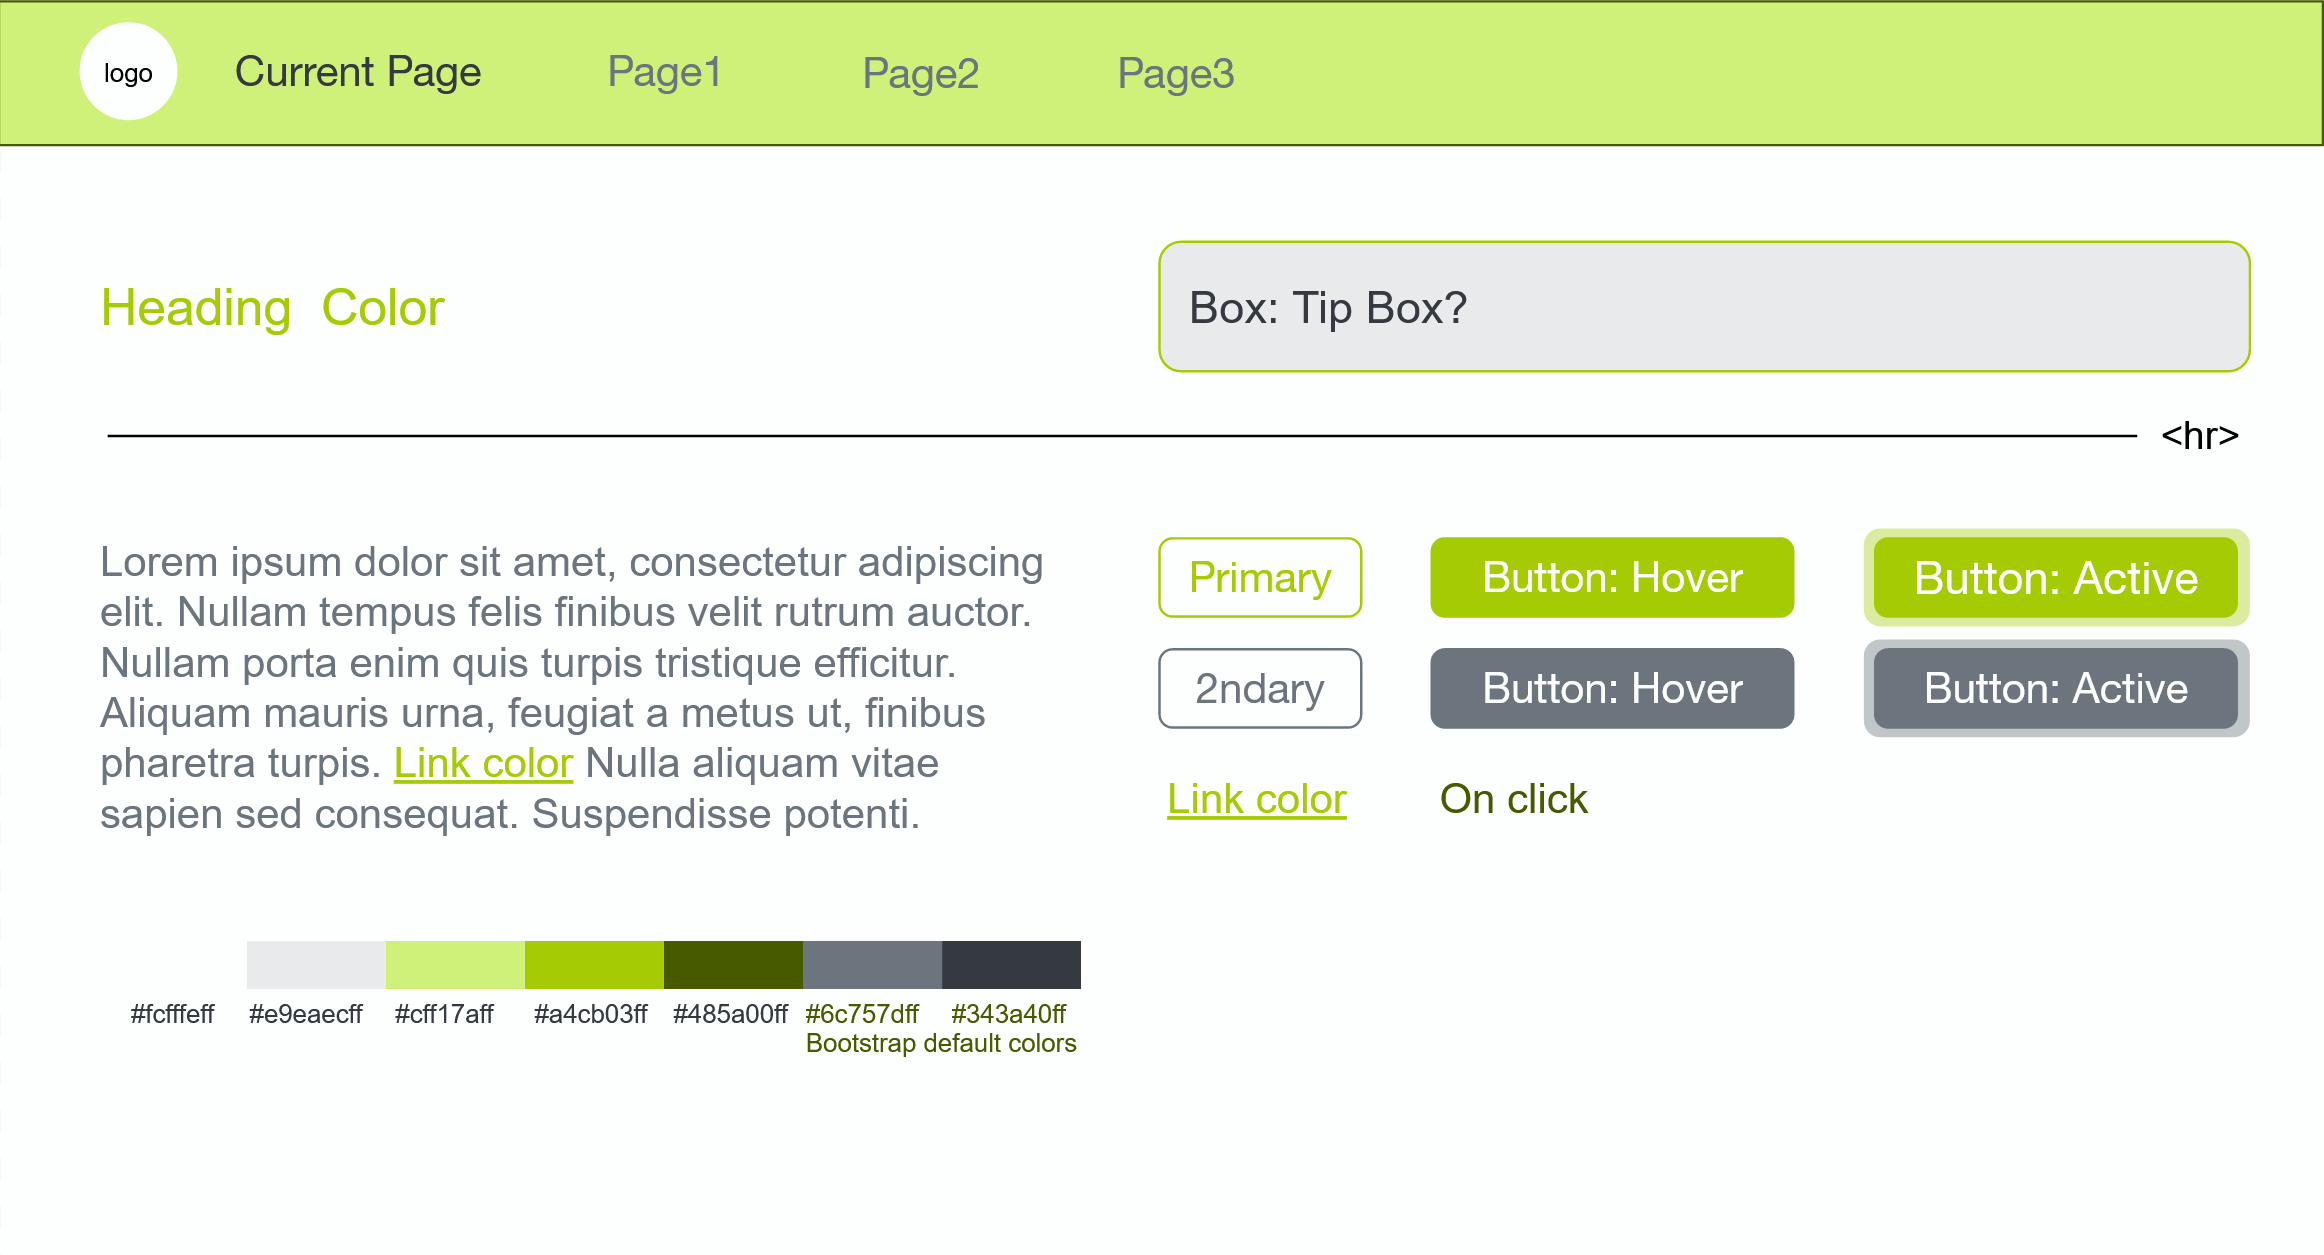
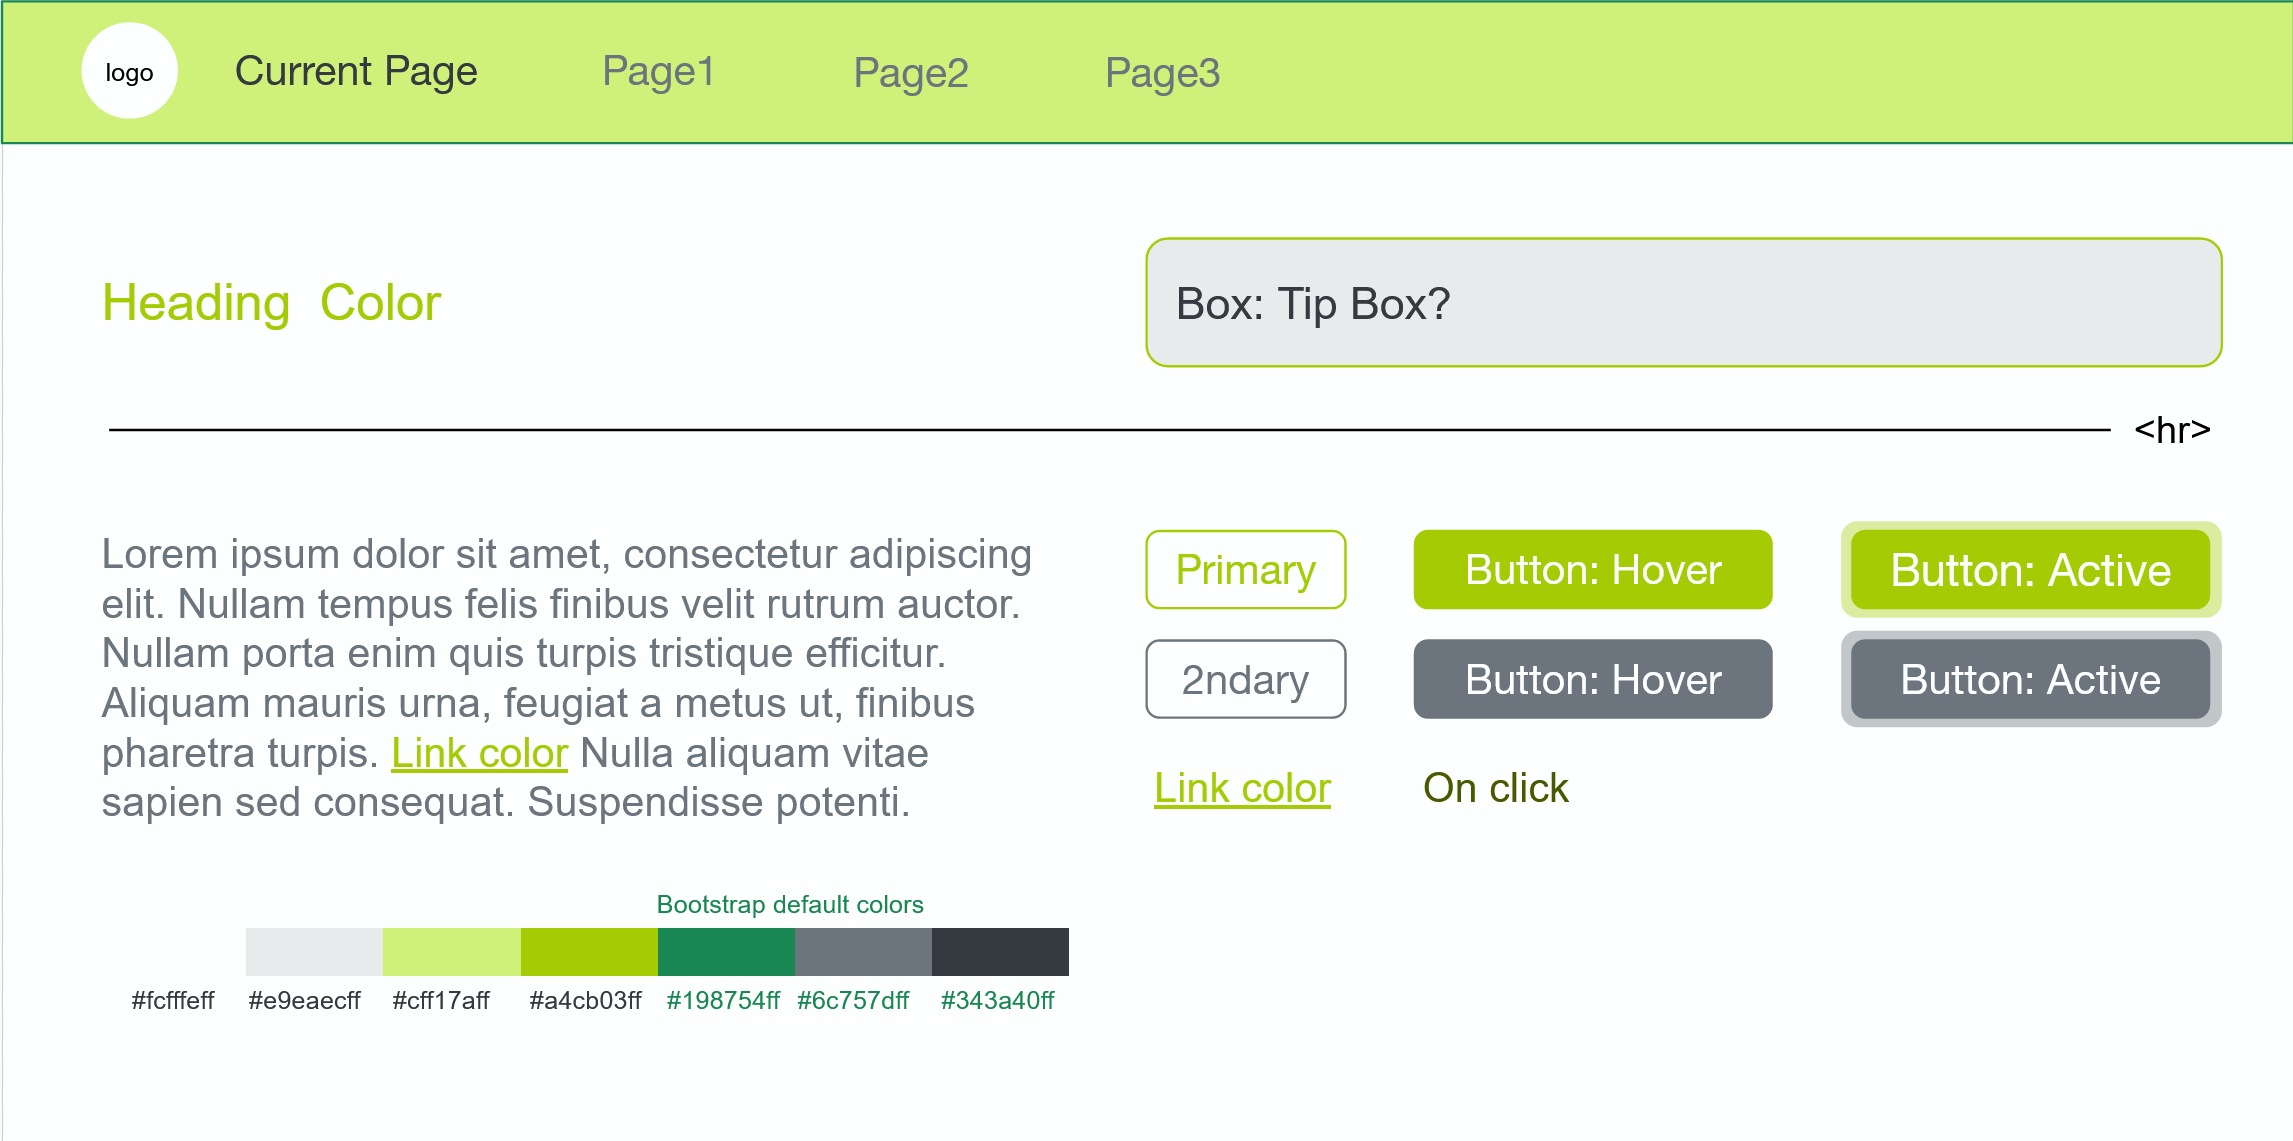
updated style guide and library

diff --git a/project_code_and_components/resources/css/style_guide.md b/project_code_and_components/resources/css/style_guide.md
@@ -14,6 +14,7 @@ This document contains information on the following:
 - Colored boxes
 - Buttons
 - Images for use of icons
+- Tables
 
 It isn't necessary to read the entire thing to parse a section.
 
@@ -57,7 +58,7 @@ Note: Hex codes do not include alpha (transparency) channels code and by default
 - #e9eaec
 - #cff17a
 - #a4cb03
-- #485a00
+- #198754
 - #6c757d
 - #343a40
 
@@ -108,3 +109,13 @@ Class "icon" puts an image into a circular frame.
 The class does not alter image size, so the size of the full image will by default be whatever the size of source image is, unless affected by additional styling.
 
 Currently, the class does not force images that aren't square to be in circular (square) frames; images must be in square aspect ratios to appear as a circle (will be elliptical otherwise).
+
+## Tables
+
+Class "td-vertical-center" aligns text in a table cell vertically to center.
+
+Class "td-horizontal-center" aligns text in a table cell horizontally to center.
+
+    <td class = "td-vertical-center"></td>
+
+    <td class = "td-horizontal-center"></td>
